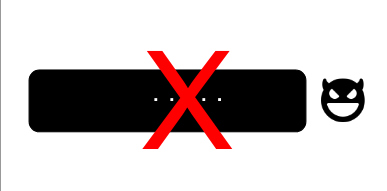
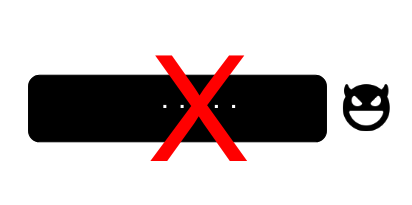
login css 최종

diff --git a/src/main/resources/static/css/member/member_login.css b/src/main/resources/static/css/member/member_login.css
@@ -7,7 +7,9 @@ body{
 	align-items: center; /* 수직 정렬  */
 	min-height: 100vh;	
 	
-	background-color: black;
+/* 	background-color: black; */
+/*  	background-color: white;
+ */	
 	/* opacity: 0.8; */
 }
 
@@ -15,8 +17,9 @@ body::after{ /* 가상 선택자  */
 	width: 100%;
   	height: 100%;
   	content: "";
-	background: url('/static/images/background.png');
-	background-repeat: no-repeat; /* 적용 x */
+	background: url('/static/images/background2.jpg');
+	background-size: cover;
+	background-repeat: no-repeat;
   	background-attachment: fixed;
   	background-position: center;
 	position: absolute;
@@ -24,7 +27,7 @@ body::after{ /* 가상 선택자  */
   	left: 0;
   	z-index: -1;
   	opacity: 0.7;
-  	/* filter: grayscale(100%); */
+  	filter: grayscale(20%); 
 }
 
 #wrap {
@@ -74,12 +77,14 @@ a{
 }
 
 h3 {
-	color: #3387a8;
-	color: white;
+/* 	color: #3387a8; */
+ 	color: #3387a8;
+	-webkit-text-stroke: 0.5px gray;
 }
 
 h2, p{
-	color: white;
+	/* color: white; */
+	color: #3387a8;
 }
 
 /* 애니메이션 적용 */
@@ -104,13 +109,13 @@ animation: motion 2s infinite;
 } 
 
 /* 푸터  */
-.mint-footer{
-	background-color: black !important; 
-}
+/* .mint-footer{
+	background-color: white !important; 
+} */
 
-.mint-footer a{
-	color : white !important;
-}
+.mint-footer a, .mint-footer span{
+	color : black !important;
+} 
 
 /* 좌우 배치  */
 .service{
